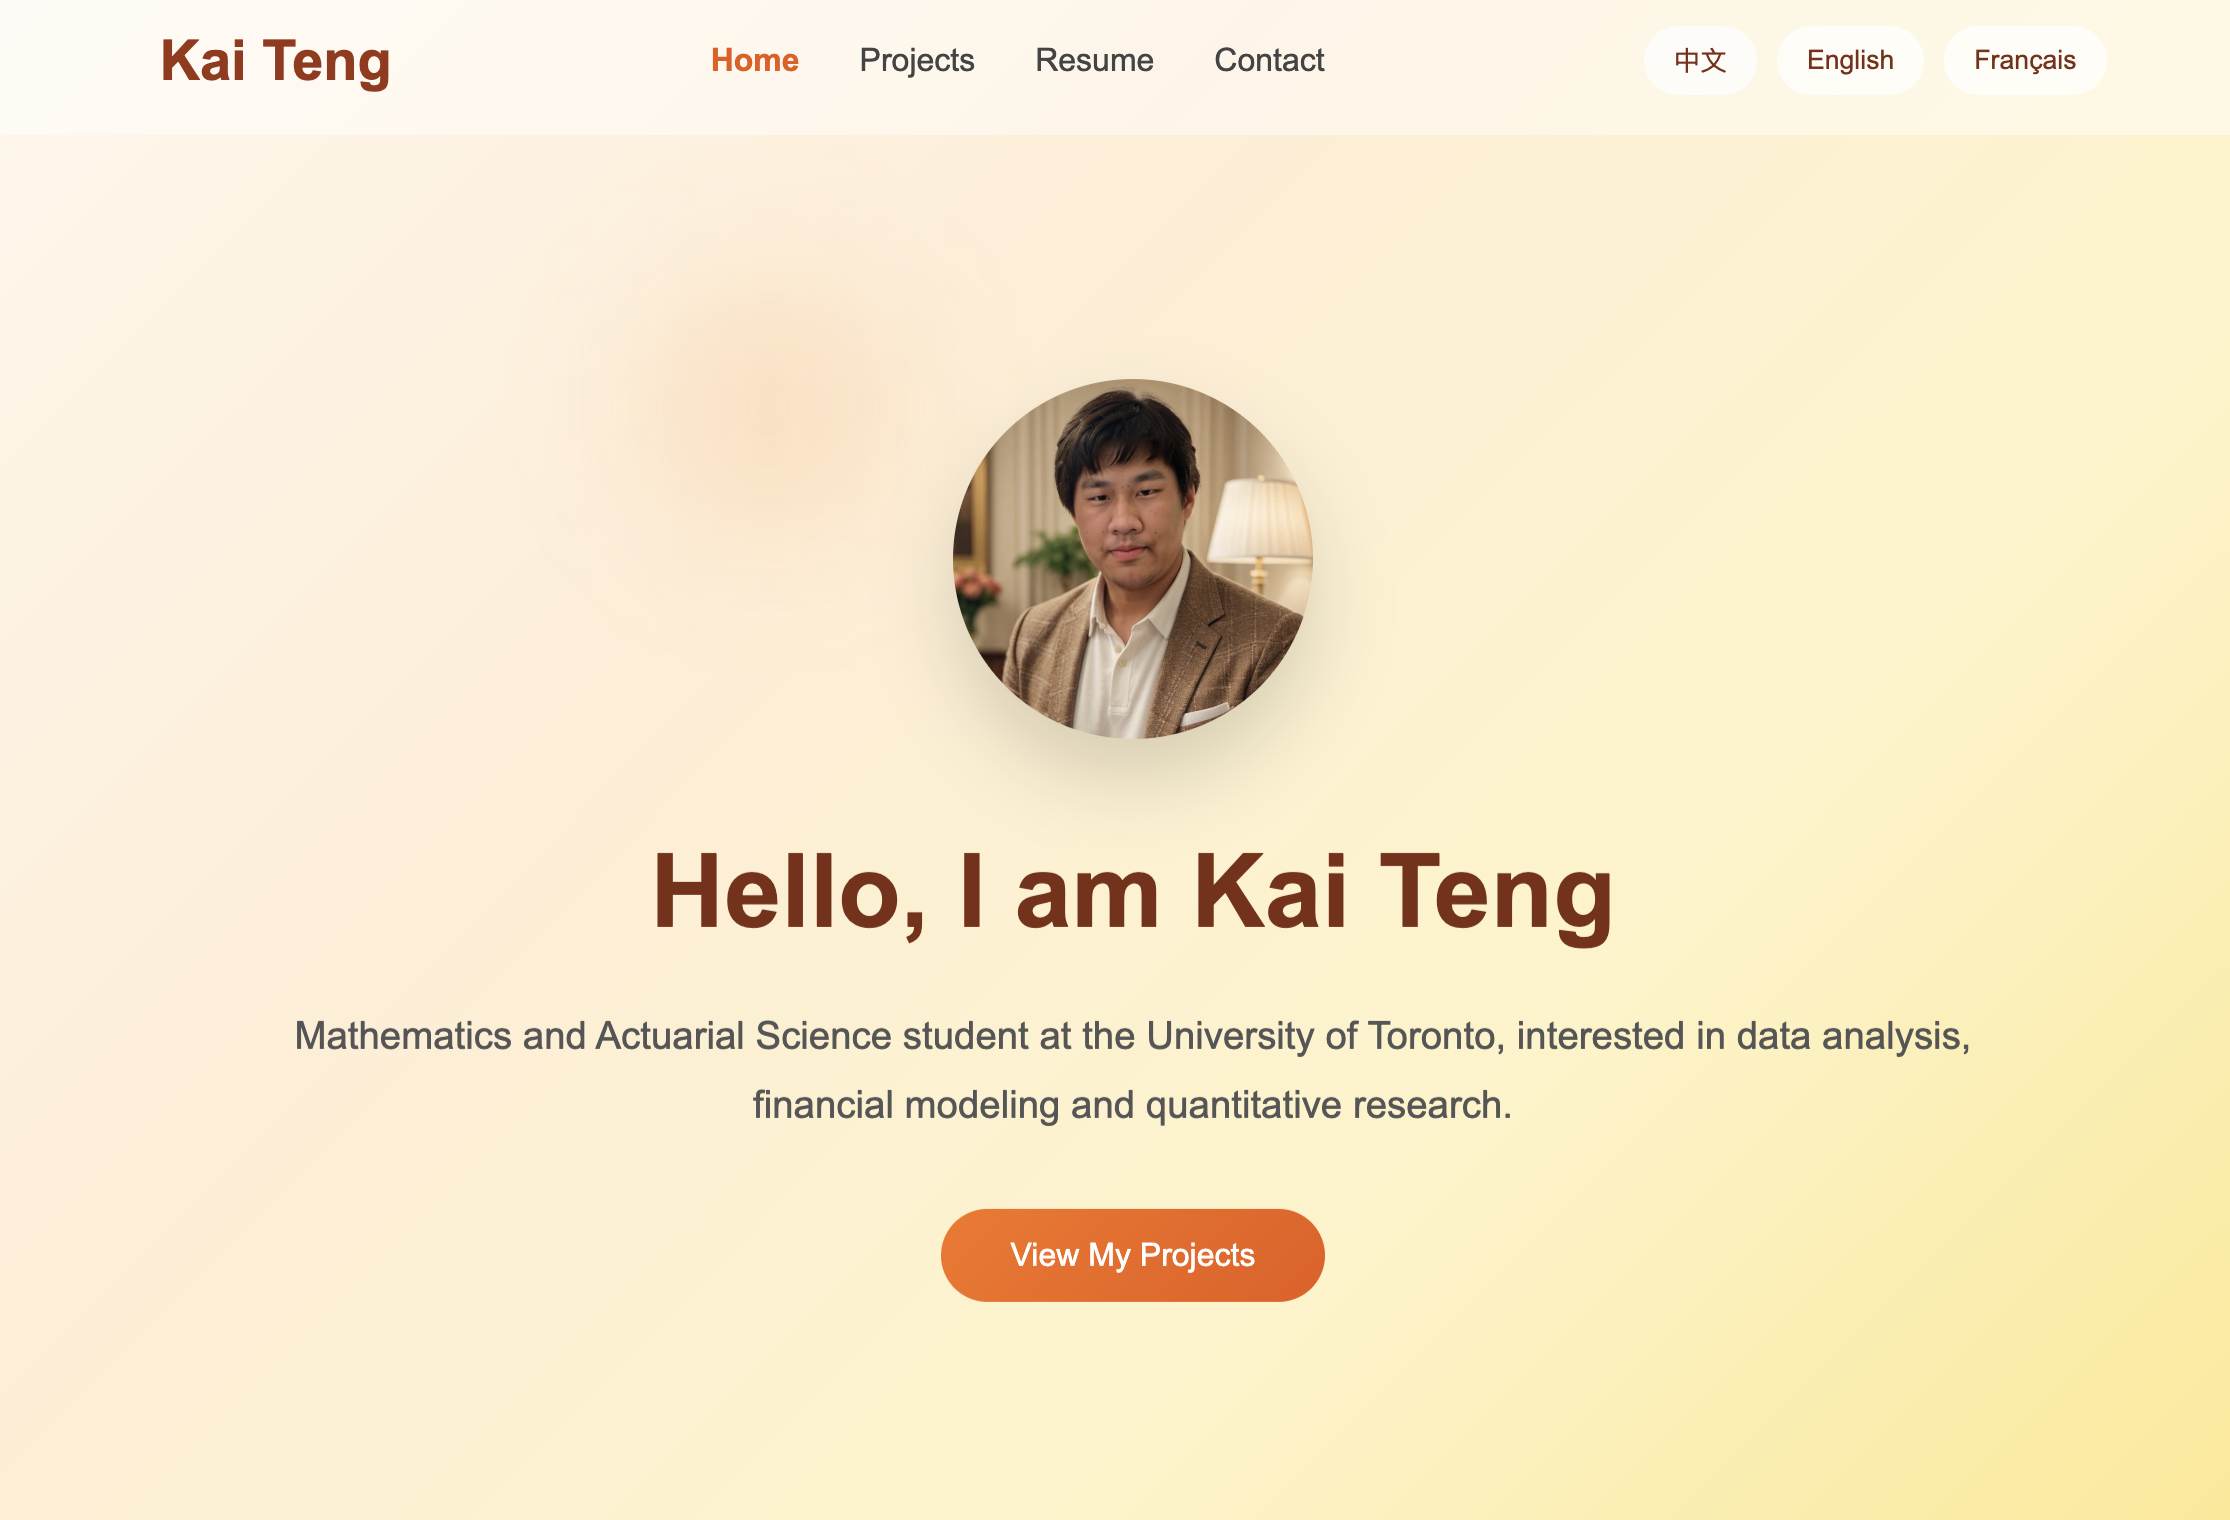
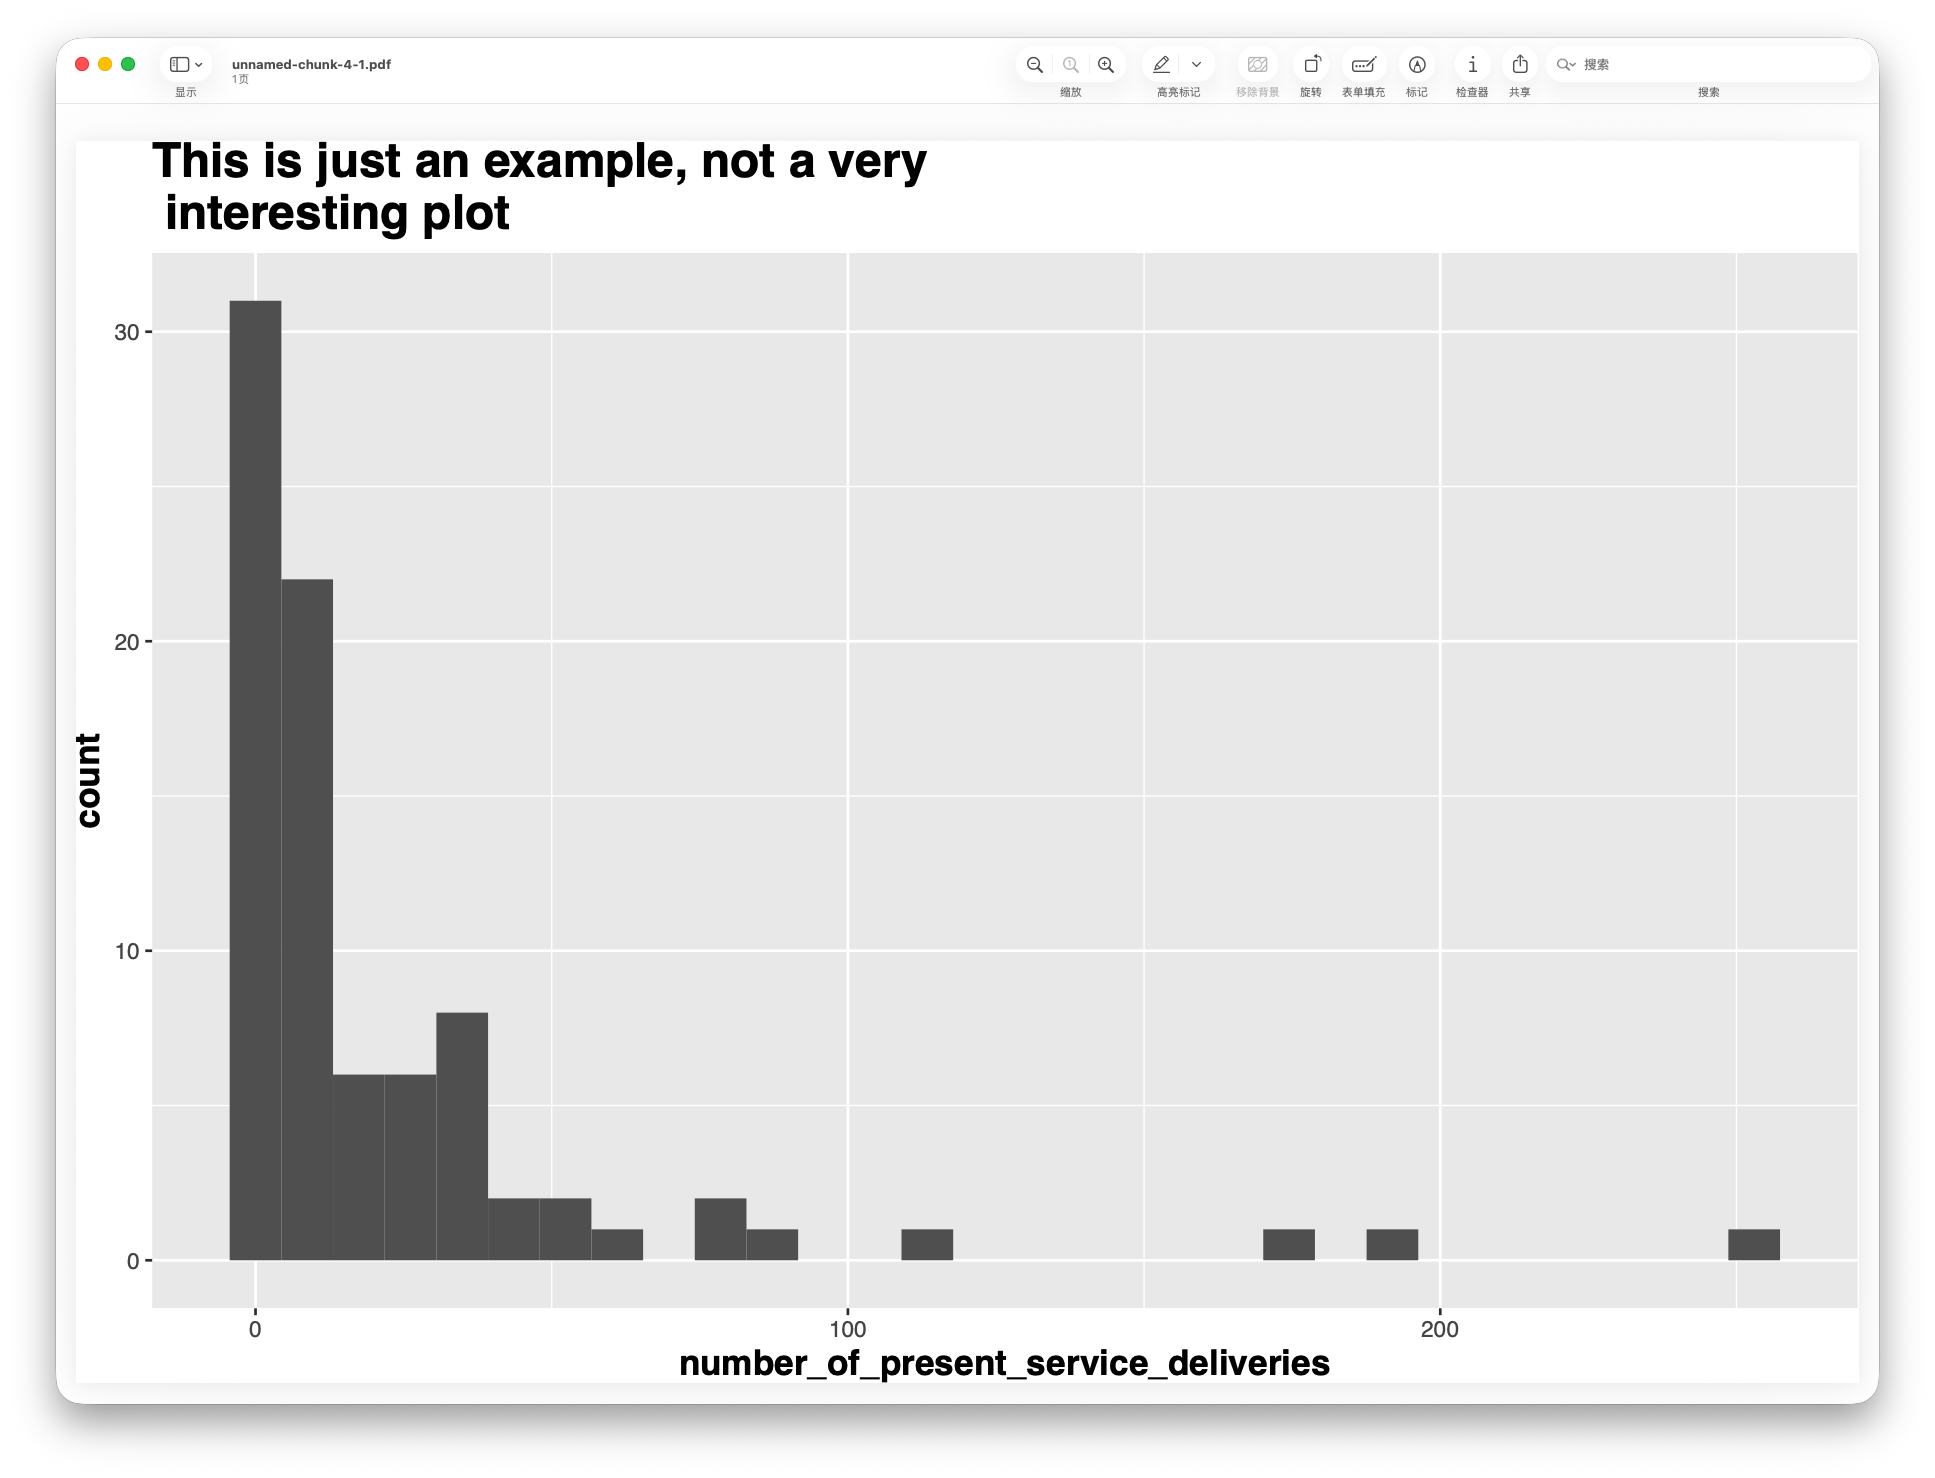
1231

diff --git a/projects.html b/projects.html
@@ -25,7 +25,7 @@
     <nav>
         <ul class="nav-links">
             <li><a href="index.html" data-cn="首页" data-en="Home" data-fr="Accueil">Home</a></li>
-            <li><a href="projects.html" data-cn="项目" data-en="Projects" data-fr="Projets">Projects</a></li>
+            <li><a href="projects.html" data-cn="项目" data-en="Projects" data-fr="Projets" class="active">Projects</a></li>
             <li><a href="resume.html" data-cn="简历" data-en="Resume" data-fr="CV">Resume</a></li>
             <li><a href="contact.html" data-cn="联系" data-en="Contact" data-fr="Contact">Contact</a></li>
         </ul>
@@ -69,8 +69,11 @@
 
     <div class="projects-grid">
 
-        <!-- Project 0: TK Quant Terminal (Flagship) 适配了暖橙色高亮边框 -->
+        <!-- Project 0: TK Quant Terminal (Flagship) -->
         <div class="project-card" style="border: 1px solid #ea580c; box-shadow: 0 0 20px rgba(234, 88, 12, 0.15);">
+            <!-- 添加了正确的量化图表路径 -->
+            <img src="images/projects/project1.png" alt="TK Quant Terminal" style="width: 100%; height: 220px; object-fit: cover; border-radius: 15px; margin-bottom: 20px;">
+            
             <h3 data-cn="TK 量化终端：机构级高频风控引擎" 
                 data-en="TK Quant Terminal: Institutional Quant & Risk Engine" 
                 data-fr="TK Quant Terminal: Moteur Quantitatif Institutionnel">
@@ -94,76 +97,59 @@
                data-cn="查看架构详情"
                data-en="View Architecture Details"
                data-fr="Voir les détails de l'architecture">
-               View Architecture Details
+                View Architecture Details
             </a>
         </div>
 
-        <!-- Project 1 -->
+        <!-- Project 1: Aliyun Tianchi -->
         <div class="project-card">
-            <h3 data-cn="期限结构与基差多因子回测框架" 
-                data-en="Term Structure & Basis Multi-Factor Backtesting" 
-                data-fr="Backtesting Multi-Facteurs de Structure par Terme">
-                Term Structure & Basis Multi-Factor Backtesting
+            <!-- 添加了基差回测图表路径 -->
+            <img src="images/projects/project2.png" alt="Aliyun Tianchi Project" style="width: 100%; height: 220px; object-fit: cover; border-radius: 15px; margin-bottom: 20px;">
+            
+            <h3 data-cn="Aliyun Tianchi 数据挖掘项目" 
+                data-en="Aliyun Tianchi Data Mining Project" 
+                data-fr="Projet d'Exploration de Données Aliyun Tianchi">
+                Aliyun Tianchi Data Mining Project
             </h3>
-            <p data-cn="基于大宗商品现货与期货价格的期限结构，构建截面与时序基差因子。通过高维数据清洗与严谨的样本外回测，验证因子的 Alpha 收益与衰减特征。"
-               data-en="Constructs cross-sectional and time-series basis factors based on commodity spot and futures term structures. Validates Alpha generation and decay through rigorous out-of-sample backtesting."
-               data-fr="Construit des facteurs de base transversaux et chronologiques basés sur la structure à terme des produits de base. Valide la génération d'Alpha via un backtesting rigoureux.">
-               Constructs cross-sectional and time-series basis factors based on commodity spot and futures term structures. Validates Alpha generation and decay through rigorous out-of-sample backtesting.
+            <p data-cn="使用 Python 对大规模商业数据集进行特征工程；应用 EDA 技术识别高维数据中的模式。微调模型参数，优化特定业务场景的预测准确性，展现逻辑解决问题能力。"
+               data-en="Performed feature engineering on large-scale business datasets using Python; applied EDA techniques to identify patterns in high-dimensional data. Fine-tuned model parameters to optimize predictive accuracy for specific business scenarios, demonstrating logical problem-solving skills."
+               data-fr="Ingénierie des caractéristiques sur des ensembles de données commerciales à grande échelle à l'aide de Python; application de techniques d'EDA.">
+               Performed feature engineering on large-scale business datasets using Python; applied EDA techniques to identify patterns in high-dimensional data. Fine-tuned model parameters to optimize predictive accuracy for specific business scenarios, demonstrating logical problem-solving skills.
             </p>
             <p class="project-method"
-               data-cn="方法：因子挖掘 · 期限结构分析 · 样本外测试"
-               data-en="Methods: Factor Mining · Term Structure Analysis · Out-of-Sample Testing"
-               data-fr="Méthodes : Extraction de Facteurs · Analyse de Structure par Terme">
-               Methods: Factor Mining · Term Structure Analysis · Out-of-Sample Testing
+               data-cn="方法：Python · 特征工程 · EDA"
+               data-en="Methods: Python · Feature Engineering · EDA"
+               data-fr="Méthodes : Python · Ingénierie des Caractéristiques · EDA">
+               Methods: Python · Feature Engineering · EDA
             </p>
             <p>
-                <strong>Tech Stack:</strong> Python · Pandas · NumPy · QuantStats
+                <strong>Tech Stack:</strong> Python · Pandas · NumPy · Scikit-Learn
             </p>
         </div>
 
-        <!-- Project 2 -->
+        <!-- Project 2: Wellspring -->
         <div class="project-card">
-            <h3 data-cn="商品期货 CTA 策略与波动率建模" 
-                data-en="Commodity CTA Strategies & Volatility Modeling" 
-                data-fr="Stratégies CTA sur Matières Premières">
-                Commodity CTA Strategies & Volatility Modeling
+            <!-- 添加了早期个人网站截图路径 -->
+            <img src="images/projects/project3.png" alt="Wellspring Project" style="width: 100%; height: 220px; object-fit: cover; border-radius: 15px; margin-bottom: 20px;">
+            
+            <h3 data-cn="Wellspring 社区影响数据分析" 
+                data-en="Wellspring Community Impact Data Analysis" 
+                data-fr="Analyse des Données d'Impact Communautaire Wellspring">
+                Wellspring Community Impact Data Analysis
             </h3>
-            <p data-cn="运用数理统计与时序分析方法，深度挖掘大宗商品市场的动量与均值回归规律，并结合风险平价 (Risk Parity) 模型优化多品种衍生品投资组合。"
-               data-en="Applies mathematical statistics and time-series analysis to uncover momentum and mean-reversion patterns in commodity markets, utilizing Risk Parity models for multi-asset portfolio optimization."
-               data-fr="Applique des statistiques mathématiques pour découvrir les modèles de momentum et de réversion à la moyenne sur les marchés des matières premières, en utilisant des modèles de Risk Parity.">
-               Applies mathematical statistics and time-series analysis to uncover momentum and mean-reversion patterns in commodity markets, utilizing Risk Parity models for multi-asset portfolio optimization.
+            <p data-cn="使用 Python 和 R 通过数据清理和回归分析来分析社区影响；设计可视化图表，向利益相关者传达关键趋势。"
+               data-en="Analyzed community impact through data cleaning and regression analysis in Python and R; designed visualizations to communicate key trends to stakeholders."
+               data-fr="Analyse de l'impact communautaire grâce au nettoyage des données et à l'analyse de régression en Python et R.">
+               Analyzed community impact through data cleaning and regression analysis in Python and R; designed visualizations to communicate key trends to stakeholders.
             </p>
             <p class="project-method"
-               data-cn="方法：时间序列分析 · 风险平价优化 · 趋势跟踪"
-               data-en="Methods: Time-Series Analysis · Risk Parity Optimization · Trend Following"
-               data-fr="Méthodes : Analyse de Séries Chronologiques · Optimisation Risk Parity">
-               Methods: Time-Series Analysis · Risk Parity Optimization · Trend Following
+               data-cn="方法：Python · R · 回归分析 · 数据可视化"
+               data-en="Methods: Python · R · Regression Analysis · Visualization"
+               data-fr="Méthodes : Nettoyage de données · Analyse de régression">
+               Methods: Python · R · Regression Analysis · Visualization
             </p>
             <p>
-                <strong>Tech Stack:</strong> Python · SciPy · Statsmodels
-            </p>
-        </div>
-
-        <!-- Project 3 -->
-        <div class="project-card">
-            <h3 data-cn="高维金融数据流清洗与计量统计建模" 
-                data-en="High-Dimensional Data Pipeline & Econometrics" 
-                data-fr="Pipeline de Données et Économétrie">
-                High-Dimensional Data Pipeline & Econometrics
-            </h3>
-            <p data-cn="构建端到端的金融数据处理流水线。运用多元回归、假设检验与机器学习降维技术，从海量非结构化市场噪音中提取具有统计显著性的预测特征。"
-               data-en="Builds an end-to-end financial data pipeline. Utilizes multivariate regression, hypothesis testing, and dimensionality reduction to extract statistically significant features from market noise."
-               data-fr="Construit un pipeline de données financières. Utilise la régression multivariée et la réduction de dimensionnalité pour extraire des caractéristiques statistiquement significatives.">
-               Builds an end-to-end financial data pipeline. Utilizes multivariate regression, hypothesis testing, and dimensionality reduction to extract statistically significant features from market noise.
-            </p>
-            <p class="project-method"
-               data-cn="方法：计量经济学 · 降维特征提取 · 假设检验"
-               data-en="Methods: Econometrics · Dimensionality Reduction · Hypothesis Testing"
-               data-fr="Méthodes : Économétrie · Réduction de Dimensionnalité · Tests d'Hypothèses">
-               Methods: Econometrics · Dimensionality Reduction · Hypothesis Testing
-            </p>
-            <p>
-                <strong>Tech Stack:</strong> Python · R · SQL · Scikit-Learn
+                <strong>Tech Stack:</strong> Python · R · Matplotlib
             </p>
         </div>
 
@@ -178,7 +164,7 @@
     <p data-cn="数学 · 精算科学 · 统计 · 量化研究"
        data-en="Mathematics · Actuarial Science · Statistics · Quantitative Research"
        data-fr="Mathématiques · Actuariat · Statistiques · Recherche Quantitative">
-       Mathematics · Actuarial Science · Statistics · Quantitative Research
+        Mathematics · Actuarial Science · Statistics · Quantitative Research
     </p>
 </footer>
 
